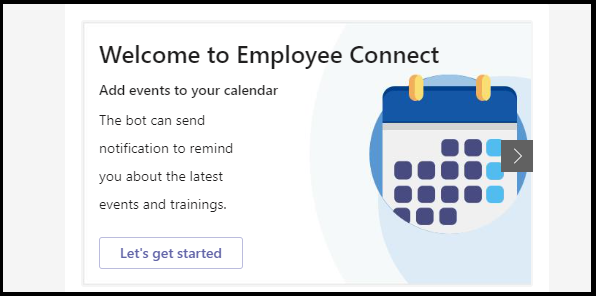
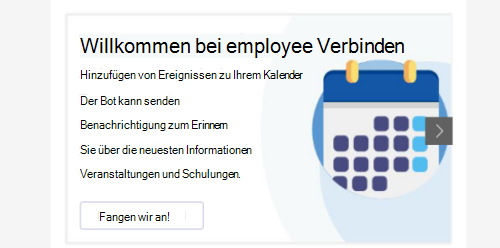
commit translated contents

diff --git a/msteams-platform/toolkit/debug-background-process.md b/msteams-platform/toolkit/debug-background-process.md
@@ -6,20 +6,20 @@ ms.author: surbhigupta
 ms.localizationpriority: high
 ms.topic: overview
 ms.date: 03/03/2022
-ms.openlocfilehash: 74aa3ef53aab329b0b2acae34dc976c142703e0e
-ms.sourcegitcommit: 5e5d2d3fb621bcbd9d792a5b450f95167ec8548b
+ms.openlocfilehash: 33e1e00165119af1e1b63d024097bd3a1a1b13c2
+ms.sourcegitcommit: 3bfd0d2c4d83f306023adb45c8a3f829f7150b1d
 ms.translationtype: HT
 ms.contentlocale: de-DE
-ms.lasthandoff: 03/22/2022
-ms.locfileid: "63731894"
+ms.lasthandoff: 04/27/2022
+ms.locfileid: "65073830"
 ---
 # <a name="debug-background-process"></a>Debuggen von Hintergrundprozessen
 
 Der lokale Debugworkflow umfasst die Dateien `.vscode/launch.json` und `.vscode/tasks.json`, um den Debugger in Visual Studio Code zu konfigurieren, dann startet Visual Studio Code die Debugger und Microsoft Edge oder Chrome-Debugger startet wie folgt eine neue Browserinstanz:
 
-1. Die Datei `launch.json` konfiguriert den Debugger in Visual Studio Code. 
+1. Die Datei `launch.json` konfiguriert den Debugger in Visual Studio Code.
 
-2. Visual Studio Code führt den Verbund `preLaunchTask`, `Pre Debug Check & Start All` in Datei `.vscode/tasks.json` aus.
+2. Visual Studio Code führt den Verbund **preLaunchTask**, **Überprüfung vor dem Debuggen und alle Starten** in der Datei `.vscode/tasks.json` aus.
 
 3. Visual Studio Code startet dann die in den Verbundkonfigurationen angegebenen Debugger, z. B. **An Bot anfügen**, **An Back-End anfügen**, **An Front-End anfügen** und **Bot starten**.
 
@@ -41,11 +41,11 @@ Das Teams-Toolkit überprüft während des Debugprozesses die folgenden Vorausse
    
 * Microsoft 365 Konto mit gültigen Anmeldeinformationen, das Teams-Toolkit fordert Sie auf, sich bei dem Microsoft 365-Konto anzumelden, wenn Sie sich nicht bereits angemeldet haben.
 
-* Das Hochladen oder Querladen benutzerdefinierter Apps für Ihren Entwicklermandanten ist aktiviert. Wenn nicht, wird das lokale Debuggen beendet.
+* Das Hochladen oder Querladen benutzerdefinierter Apps für Ihren Entwicklermandanten ist aktiviert, wenn dies nicht der Fall ist, wird das lokale Debuggen beendet.
 
-* Ngrok-Binärversion 2.3, gültig für Bot- und Messagingerweiterung.  Wenn Ngrok nicht installiert ist oder die Version nicht der Anforderung entspricht, installiert das Teams-Toolkit das Ngrok-NPM-Paket `ngrok@4.2.2` in `~/.fx/bin/ngrok`. Die Ngrok-Binärdatei wird vom Ngrok-NPM-Paket in `/.fx/bin/ngrok/node modules/ngrok/bin`verwaltet.
+* Die Ngrok-Binärdatei, Version 2.3, ist für Bot- und Messaging-Erweiterungen anwendbar. Wenn Ngrok nicht installiert ist oder die Version nicht den Anforderungen entspricht, installiert das Teams-Toolkit das Ngrok-NPM-Paket `ngrok@4.2.2` in `~/.fx/bin/ngrok`. Die Ngrok-Binärdatei wird vom Ngrok-NPM-Paket in `/.fx/bin/ngrok/node modules/ngrok/bin`verwaltet.
 
-* Azure Functions Core Tools, Version 3. Wenn Azure Functions Core Tools nicht installiert ist oder die Version nicht der Anforderung entspricht, installiert das Teams-Toolkit das Azure Functions Core Tools-NPM-Paket, azure-functions-core-tools@3 für **Windows** und für **macOs** in  `~/.fx/bin/func`. Das Azure Functions Core Tools-NPM-Paket in  `~/.fx/bin/func/node_modules/azure-functions-core-tools/bin` verwaltet die Azure Functions Core Tools-Binärdatei. Bei Linux wird das lokale Debuggen beendet.
+* Azure Functions Core Tools, Version 3. Wenn Azure Functions Core Tools nicht installiert ist oder die Version nicht der Anforderung entspricht, installiert das Teams-Toolkit das Azure Functions Core Tools-NPM-Paket „azure-functions-core-tools@3“ für **Windows** und für **macOs** in `~/.fx/bin/func`. Das Azure Functions Core Tools-NPM-Paket in  `~/.fx/bin/func/node_modules/azure-functions-core-tools/bin` verwaltet die Azure Functions Core Tools-Binärdatei. Bei Linux wird das lokale Debuggen beendet.
 
 * .NET Core SDK-Version, die für Azure Functions gilt. Wenn .NET Core SDK nicht installiert ist oder die Version nicht der Anforderung entspricht, installiert das Teams-Toolkit .NET Core SDK für Windows und MacOS in `~/.fx/bin/dotnet`. Bei Linux wird das lokale Debuggen beendet.
 
@@ -56,7 +56,7 @@ Das Teams-Toolkit überprüft während des Debugprozesses die folgenden Vorausse
   |Windows, MacOs (x64) und Linux | **3.1 (empfohlen)**, 5.0, 6.0 |
   |macOs (arm64) |6.0 |
 
-* Entwicklungszertifikat, wenn das Entwicklungszertifikat für localhost nicht für die Registerkarte in Windows oder macOS installiert ist, werden Sie vom Teams-Toolkit aufgefordert, es zu installieren.
+* Entwicklungszertifikat. Wenn das Entwicklungszertifikat für localhost nicht für die Registerkarte in Windows oder macOS installiert ist, werden Sie vom Teams-Toolkit aufgefordert, es zu installieren.
 
 * Azure Functions-Bindungserweiterungen, die in `api/extensions.csproj` definiert sind. Wenn Azure Functions-Bindungserweiterungen nicht installiert sind, installiert das Teams-Toolkit Azure Functions-Bindungserweiterungen.
 
@@ -64,7 +64,7 @@ Das Teams-Toolkit überprüft während des Debugprozesses die folgenden Vorausse
 
 * Bot- und Messagingerweiterung. Das Teams-Toolkit startet Ngrok, um einen HTTP-Tunnel für Bot- und Messagingerweiterungen zu erstellen.
 
-* Verfügbare Ports, wenn Registerkarten-, Bot-, Messagingerweiterungs- und Azure Functions-Ports nicht verfügbar sind, wird das lokale Debuggen beendet.
+* Verfügbare Ports. Wenn keine Ports für Registerkarten, Bots, Messagingerweiterungen und Azure Functions verfügbar sind, wird das lokale Debuggen beendet.
 
   In der folgenden Tabelle sind die Ports aufgeführt, die für Komponenten verfügbar sind:
 
@@ -81,16 +81,16 @@ Das Teams-Toolkit überprüft während des Debugprozesses die folgenden Vorausse
 
 |Project type|Installation| Limitation|
 |----------|--------------------------------|-----|
-|Tab without Azure functions | Node.js LTS versions 10, 12, **14 (recommended)**, 16 | The local debug terminates, if Node.js is not installed or the version doesn't match the requirement.|
-|Tab with Azure functions | Node.js LTS versions 10, 12, **14 (recommended)** |The local debug terminates, if Node.js is not installed or the version doesn't match the requirement.|
-|Bot | Node.js LTS versions 10, 12, **14 (recommended)**, 16|The local debug terminates, if Node.js is not installed or the version doesn't match the requirement.|
-|Messaging extension | Node.js LTS versions 10, 12, **14 (recommended)**, 16 |The local debug terminates, if Node.js is not installed or the version doesn't match the requirement.|
+|Tab without Azure functions | Node.js LTS versions 10, 12, **14 (recommended)**, 16 | The local debug terminates, if Node.js isn't installed or the version doesn't match the requirement.|
+|Tab with Azure functions | Node.js LTS versions 10, 12, **14 (recommended)** |The local debug terminates, if Node.js isn't installed or the version doesn't match the requirement.|
+|Bot | Node.js LTS versions 10, 12, **14 (recommended)**, 16|The local debug terminates, if Node.js isn't installed or the version doesn't match the requirement.|
+|Messaging extension | Node.js LTS versions 10, 12, **14 (recommended)**, 16 |The local debug terminates, if Node.js isn't installed or the version doesn't match the requirement.|
 |Sign in to Microsoft 365 account | Microsoft 365 credentials |Teams toolkit prompts you to sign in to Microsoft 365 account, if you haven't signed in. |
-|Bot, messaging extension | Ngrok version 2.3| • If Ngrok is not installed or the version doesn't match the requirement, the Teams toolkit installs Ngrok NPM package `ngrok@4.2.2` in `~/.fx/bin/ngrok`. </br> • The Ngrok binary is managed by Ngrok NPM package in `/.fx/bin/ngrok/node modules/ngrok/bin`.|
-|Azure functions | Azure Functions Core Tools version 3| • If Azure Functions Core Tools is not installed or the version doesn't match the requirement, the Teams toolkit installs Azure Functions Core Tools NPM package, azure-functions-core-tools@3 for **Windows** and for **macOs** in  `~/.fx/bin/func`. </br> • The Azure Functions Core Tools NPM package in  `~/.fx/bin/func/node_modules/azure-functions-core-tools/bin` manages Azure Functions Core Tools binary. For Linux, the local debug terminates.|
-|Azure functions |.NET Core SDK version|• If .NET Core SDK is not installed or the version  doesn't match the requirement, the toolkit installs .NET Core SDK for Windows and macOS in `~/.fx/bin/dotnet`.</br> • For Linux, the local debug terminates.|
-|Azure functions | Azure functions binding extensions defined in `api/extensions.csproj`| If Azure functions binding extensions is not installed, the toolkit installs Azure functions binding extensions.|
-|NPM packages| NPM packages for tab app, bot app, messaging extension app, and Azure functions|If NPM is not installed, the toolkit installs all NPM packages.|
+|Bot, messaging extension | Ngrok version 2.3| • If Ngrok isn't installed or the version doesn't match the requirement, the Teams toolkit installs Ngrok NPM package `ngrok@4.2.2` in `~/.fx/bin/ngrok`. </br> • The Ngrok binary is managed by Ngrok NPM package in `/.fx/bin/ngrok/node modules/ngrok/bin`.|
+|Azure functions | Azure Functions Core Tools version 3| • If Azure Functions Core Tools isn't installed or the version doesn't match the requirement, the Teams toolkit installs Azure Functions Core Tools NPM package, azure-functions-core-tools@3 for **Windows** and for **macOs** in  `~/.fx/bin/func`. </br> • The Azure Functions Core Tools NPM package in  `~/.fx/bin/func/node_modules/azure-functions-core-tools/bin` manages Azure Functions Core Tools binary. For Linux, the local debug terminates.|
+|Azure functions |.NET Core SDK version|• If .NET Core SDK isn't installed or the version  doesn't match the requirement, the toolkit installs .NET Core SDK for Windows and macOS in `~/.fx/bin/dotnet`.</br> • For Linux, the local debug terminates.|
+|Azure functions | Azure functions binding extensions defined in `api/extensions.csproj`| If Azure functions binding extensions isn't installed, the toolkit installs Azure functions binding extensions.|
+|NPM packages| NPM packages for tab app, bot app, messaging extension app, and Azure functions|If NPM isn't installed, the toolkit installs all NPM packages.|
 |Bot and messaging extension | Ngrok |Toolkit starts Ngrok to create a HTTP tunnel for bot and messaging extension. |
 
 > [!NOTE]
@@ -105,7 +105,7 @@ Use the following .NET Core versions:
 
 
 > [!NOTE]
-> If the development certificate for localhost is not installed for tab in Windows or macOS, the Teams toolkit prompts you to install it.</br> -->
+> If the development certificate for localhost isn't installed for tab in Windows or macOS, the Teams toolkit prompts you to install it.</br> -->
 
 
 Wenn Sie **Start Debugging (F5)** auswählen, zeigt der Ausgabekanal des Teams-Toolkits den Fortschritt und das Ergebnis an, nachdem die Voraussetzungen überprüft wurden.
@@ -130,32 +130,34 @@ Im Einrichtungsprozess bereitet das Teams-Toolkit die folgenden Registrierungen 
 
 1. Macht eine API verfügbar.
 
-    a. Konfiguriert den Anwendungs-ID-URI. Für Registerkarte, `api://localhost/{appId}`. Für Bot- oder Messagingerweiterung,  `api://botid-{botid}`.
+    a. Konfiguriert den Anwendungs-ID-URI. Für Registerkarte, `api://localhost/{appId}`. Für Bot- oder Messagingerweiterung, `api://botid-{botid}`.
 
     b. Fügt einen Bereich mit dem Namen `access_as_user` hinzu. Aktiviert es für **Administratoren und Benutzer**.
 
-In der folgenden Tabelle sind die Konfigurationen der Microsoft 365-Clientanwendung mit den Client-IDs aufgeführt:
-
-  | Microsoft 365-Clientanwendung |  Client-ID  |
-  | --- | --- |
-  | Teams-Desktop, Mobil | 1fec8e78-bce4-4aaf-ab1b-5451cc387264 |
-  | Teams-Web | 5e3ce6c0-2b1f-4285-8d4b-75ee78787346 |
-  | Office.com | 4345a7b9-9a63-4910-a426-35363201d503 |
-  | Office.com | 4765445b-32c6-49b0-83e6-1d93765276ca |
-  | Office-Desktop | 0ec893e0-5785-4de6-99da-4ed124e5296c |
-  | Outlook Desktop | d3590ed6-52b3-4102-aeff-aad2292ab01c |
-  | Outlook Web Access | 00000002-0000-0ff1-ce00-000000000000 |
-  | Outlook Web Access | bc59ab01-8403-45c6-8796-ac3ef710b3e3 |
 
 4. Konfiguriert API-Berechtigungen. Fügt **User.Read** die Microsoft Graph-Berechtigung hinzu.
 
-In der folgenden Tabelle ist die Konfiguration der Authentifizierung wie folgt aufgeführt:
-
-  | Projekttyp | Umleitungs-URIs für das Web | Umleitungs-URIs für eine einseitige Anwendung |
-  | --- | --- | --- |
-  | Tab | `https://localhost:53000/auth-end.html` | `https://localhost:53000/auth-end.html?clientId={appId>}` |
-  | Bot- oder Messagingerweiterung | `https://ngrok.io/auth-end.html` | – |
+    In der folgenden Tabelle ist die Konfiguration der Authentifizierung wie folgt aufgeführt:
+    
+      | Projekttyp | Umleitungs-URIs für das Web | Umleitungs-URIs für eine einseitige Anwendung |
+      | --- | --- | --- |
+      | Tab | `https://localhost:53000/auth-end.html` | `https://localhost:53000/auth-end.html?clientId={appId>}` |
+      | Bot- oder Messagingerweiterung | `https://ngrok.io/auth-end.html` | – |
   
+
+    In der folgenden Tabelle sind die Konfigurationen der Microsoft 365-Clientanwendung mit den Client-IDs aufgeführt:
+    
+      | Microsoft 365-Clientanwendung |  Client-ID  |
+      | --- | --- |
+      | Teams-Desktop, Mobil | 1fec8e78-bce4-4aaf-ab1b-5451cc387264 |
+      | Teams-Web | 5e3ce6c0-2b1f-4285-8d4b-75ee78787346 |
+      | Office.com | 4345a7b9-9a63-4910-a426-35363201d503 |
+      | Office.com | 4765445b-32c6-49b0-83e6-1d93765276ca |
+      | Office-Desktop | 0ec893e0-5785-4de6-99da-4ed124e5296c |
+      | Outlook Desktop | d3590ed6-52b3-4102-aeff-aad2292ab01c |
+      | Outlook Web Access | 00000002-0000-0ff1-ce00-000000000000 |
+      | Outlook Web Access | bc59ab01-8403-45c6-8796-ac3ef710b3e3 |
+    
 ### <a name="registers-and-configures-bot"></a>Registriert und konfiguriert den Bot 
 
 Für Registerkarten-App oder Messagingerweiterungs-App:
@@ -172,7 +174,7 @@ Für Registerkarten-App oder Messagingerweiterungs-App:
 
 ### <a name="registers-and-configures-teams-app"></a>Registriert und konfiguriert Teams-App
 
-Registriert eine Teams-App in [Entwickler](https://dev.teams.microsoft.com/home) mithilfe der Manifestvorlage in `templates/appPackage/manifest.local.template.json`.
+Registriert eine Teams-App in [Entwickler](https://dev.teams.microsoft.com/home) mithilfe der Manifestvorlage in `templates/appPackage/manifest.template.json`.
 
 Nach dem Registrieren und Konfigurieren der App werden lokale Debugdateien generiert.
 
@@ -182,8 +184,8 @@ Sie können die Projektordner und -dateien im Explorer-Bereich von Visual Studio
 
 | Ordnername| Inhalt| Debugkonfigurationstyp |
 | --- | --- | --- |
-|  `.fx/configs/localSettings.json` | Lokale Debugkonfigurationsdatei | Die Werte jeder Konfiguration werden während des lokalen Debuggens generiert und gespeichert. |
-|  `templates/appPackage/manifest.local.template.json` | Teams-App-Manifestvorlagendatei für lokales Debuggen | Die Platzhalter in der Datei werden während des lokalen Debuggens aufgelöst. |
+|  `.fx/configs/config.local.json` | Lokale Debugkonfigurationsdatei | Die Werte jeder Konfiguration werden während des lokalen Debuggens generiert und gespeichert. |
+|  `templates/appPackage/manifest.template.json` | Teams-App-Manifestvorlagendatei für lokales Debuggen | Die Platzhalter in der Datei werden während des lokalen Debuggens aufgelöst. |
 |  `tabs/.env.teams.local`  | Umgebungsvariablendatei für Registerkarte  | Die Werte jeder Umgebungsvariable werden während des lokalen Debuggens generiert und gespeichert. |
 |  `bot/.env.teamsfx.local` | Umgebungsvariablendatei für Bot- und Messagingerweiterung| Die Werte jeder Umgebungsvariable werden während des lokalen Debuggens generiert und gespeichert. |
 | `api/.env.teamsfx.local`  | Umgebungsvariablendatei für Azure Functions | Die Werte jeder Umgebungsvariable werden während des lokalen Debuggens generiert und gespeichert. |

diff --git a/msteams-platform/whats-new.md b/msteams-platform/whats-new.md
@@ -4,12 +4,12 @@ description: Beschreibt alle neuen oder aktuellen Entwicklerfunktionen in Micros
 ms.topic: reference
 ms.localizationpriority: high
 keywords: 'Teams: Was sind die neuesten Updates oder Entwicklervorschau und Features'
-ms.openlocfilehash: 936d5eff50453801527425cbd4a61f6928fb1d30
-ms.sourcegitcommit: 8ae93b7bfffff77a5b9cb7a5d287f202e73ea9be
+ms.openlocfilehash: ba9588517e7b0657eef7da265844e20d8b2fbd76
+ms.sourcegitcommit: 3bfd0d2c4d83f306023adb45c8a3f829f7150b1d
 ms.translationtype: HT
 ms.contentlocale: de-DE
-ms.lasthandoff: 04/19/2022
-ms.locfileid: "64952387"
+ms.lasthandoff: 04/27/2022
+ms.locfileid: "65073090"
 ---
 # <a name="whats-new-for-developers-in-microsoft-teams"></a>Neuigkeiten für Entwickler in Microsoft Teams
 
@@ -22,6 +22,7 @@ Entdecken Sie die Microsoft Teams-Plattformfeatures, die allgemein verfügbar (G
 
 | Datum | Update | Hier finden |
 | --- | --- | --- |
+|20.04.2022 |  Einrichten von CI/CD-Pipelines | Tools und SDKs > Teams Toolkit für Visual Studio Code > [Einrichten von CI/CD-Pipelines](toolkit/use-CICD-template.md)|
 |19.04.2022 | Hochladen Ihrer App in Microsoft Teams | Verteilen Ihrer App > [Hochladen Ihrer App](concepts/deploy-and-publish/apps-upload.md)|
 |06.04.2022| Für Teams über persönliche App oder Registerkarte freigeben (Entwicklervorschau) | Integration in Teams > Freigeben in Teams > [Freigeben in Teams aus einer persönlichen App oder Registerkarte](concepts/build-and-test/share-to-teams-from-personal-app-or-tab.md) |
 |01.04.2022| Schritt-für-Schritt-Anleitung für die Erstellung von Teams-Unterhaltungs-Bots eingeführt| Erstellen von Bots > Bot-Unterhaltungen > Kanal- und Gruppenunterhaltungen > [Schrittweise Anleitung zum Erstellen von Teams Unterhaltungs-Bots](sbs-teams-conversation-bot.yml) |
@@ -61,6 +62,10 @@ Microsoft Teams-Plattformfeatures, die für alle App-Entwickler verfügbar sind.
 
 | **Date** | **Update** | **Hier finden Sie** |
 | -------- | --------- | ----------------|
+|26.04.2022|Deinstallationsverhalten für eine persönliche App mit Bot | Erstellen von Bots > Bot-Unterhaltungen > [Verhaltensaktualisierungen in persönlichen Apps mit Bots deinstallieren](bots/how-to/conversations/subscribe-to-conversation-events.md#uninstall-behavior-for-personal-app-with-bot)|
+|22.04.2022| Testvorschau für monetarisierte Apps | Monetarisieren Ihrer App > [Testvorschau für monetarisierte Apps](concepts/deploy-and-publish/appsource/prepare/test-preview-for-monetized-apps.md)
+|22.04.2022| In-App-Kaufablauf für die Monetarisierung von Apps | Monetarisieren Ihrer App > [In-App-Käufe](concepts/deploy-and-publish/appsource/prepare/in-app-purchase-flow.md)
+|20.04.2022 |  Einrichten von CI/CD-Pipelines | Tools und SDKs > Teams Toolkit für Visual Studio Code > [Einrichten von CI/CD-Pipelines](toolkit/use-CICD-template.md)|
 |19.04.2022 | Hochladen Ihrer App in Microsoft Teams | Verteilen Ihrer App > [Hochladen Ihrer App](concepts/deploy-and-publish/apps-upload.md)|
 |01.04.2022| Schritt-für-Schritt-Anleitung für die Erstellung von Teams-Unterhaltungs-Bots eingeführt| Erstellen von Bots > Bot-Unterhaltungen > Kanal- und Gruppenunterhaltungen > [Schrittweise Anleitung zum Erstellen von Teams Unterhaltungs-Bots](sbs-teams-conversation-bot.yml) |
 |30.03.2022| Das Modul „Erste Schritte mit der Blazor-App mithilfe von Registerkarten und Bots“ wurde aktualisiert|  Erste Schritte > [Erstellen Ihrer ersten App mit Blazor](sbs-gs-blazorupdate.yml)|
@@ -269,14 +274,10 @@ Die Entwicklervorschau ist ein öffentliches Programm, das frühzeitigen Zugriff
 |06.04.2022| Für Teams über persönliche App oder Registerkarte freigeben | Integration in Teams > Freigeben in Teams > [Freigeben in Teams aus einer persönlichen App oder Registerkarte](concepts/build-and-test/share-to-teams-from-personal-app-or-tab.md) |
 |07.02.2022| Tools und SDKs |Teams-Toolkit für Visual Studio Code > </br> • Hinzufügen von Funktionen zur Teams-App> [Fügen Sie Funktionen für Ihre Teams-Apps hinzu](toolkit/add-capability.md) </br> • Hinzufügen von Cloudressourcen zur Teams-App> [Fügen Sie Cloudressourcen für Ihre Teams-App hinzu](toolkit/add-resource.md) |
 |02.02.2022| App-Manifestversion 1.12 eingeführt | App-Manifest > Öffentliche Entwicklervorschau > [Manifestschema](resources/schema/manifest-schema-dev-preview.md) |
-|03.02.2022| Testvorschau für monetarisierte Apps| Monetarisieren Ihrer App > [Testvorschau für monetarisierte Apps](concepts/deploy-and-publish/appsource/prepare/Test-preview-for-monetized-apps.md)|
-|03.02.2022| In-App-Kaufablauf für die Monetarisierung von Apps | Monetarisieren Ihrer App > [In-App-Käufe](concepts/deploy-and-publish/appsource/prepare/in-app-purchase-flow.md)
 |17.01.2022| Personenauswahl in Adaptiven Karten für Mobilgeräte  | Erstellen von Karten und Aufgabenmodulen > Erstellen von Karten > [Personenauswahl in Adaptiven Karten](task-modules-and-cards/cards/people-picker.md)|
 |10.01.2022 | Microsoft Teams-Toolkit-Erweiterung für Visual Studio Code | Tools und SDKs > Teams Toolkit for Visual Studio Code > [Grundlagen des Teams Toolkit](toolkit/teams-toolkit-fundamentals.md) |
-|24.12.2021| Schrittweise Anleitung zum Erteilen von Berechtigungen für Registerkartengeräte eingeführt | App-Grundlagen > Gerätefunktionen > [Schritt-für-Schritt-Anleitung zum Erteilen von Berechtigungen für Tab-Geräte](sbs-tab-device-permissions.yml) |
 |15.11.2021| Persönliche Registerkarten und Messaging-Erweiterungen werden in Outlook und Office ausgeführt | [Erweitern von Teams-Apps auf Microsoft 365](~/m365-apps/overview.md) |
 |28.10.2021|Bots können aktiviert werden, um alle Kanalnachrichten mit ressourcenspezifischer Zustimmung (RESOURCE-Specific Consent, RSC) zu empfangen. | • Erstellen von Bots > Bot-Unterhaltungen > Nachrichten in Bot-Unterhaltungen > [Empfangen aller Nachrichten mit RSC](~/bots/how-to/conversations/channel-messages-with-rsc.md) </br> • Erstellen von Bots > Bot-Unterhaltungen > [Übersicht über Bot-Unterhaltungen](~/bots/how-to/conversations/conversation-basics.md) </br> • Erstellen von Bots > Bot-Unterhaltungen > [Kanal- und Gruppenunterhaltungen](~/bots/how-to/conversations/channel-and-group-conversations.md) </br> • App-Manifest > Öffentliche Entwickler-Vorschau > [Manifest-Schema für Entwickler-Vorschau](~/resources/schema/manifest-schema-dev-preview.md) |
-|21.06.2021|Deinstallationsverhalten für eine persönliche App mit Bot | Erstellen von Bots > Bot-Unterhaltungen > [Verhaltensaktualisierungen in persönlichen Apps mit Bots deinstallieren](bots/how-to/conversations/subscribe-to-conversation-events.md#uninstall-behavior-for-personal-app-with-bot)|
 |16.06.2021| Ressourcenspezifische Zustimmung für Chats | • Verwenden von Teams-Daten mit Microsoft Graph > [Ressourcenspezifische Zustimmung](graph-api/rsc/resource-specific-consent.md) </br> • Testen Ihrer App > Microsoft Graph > [Testen ressourcenspezifischer Genehmigungen in Teams](graph-api/rsc/test-resource-specific-consent.md)|
 
 Weitere Informationen finden Sie unter [Öffentliche Entwickler-Vorschau für Teams](~/resources/dev-preview/developer-preview-intro.md).

diff --git a/msteams-platform/toolkit/debug-local.md b/msteams-platform/toolkit/debug-local.md
@@ -5,12 +5,12 @@ ms.author: surbhigupta
 ms.localizationpriority: high
 ms.topic: overview
 ms.date: 03/21/2022
-ms.openlocfilehash: 25a851f0dcc956139551a46b713dc2e7df3f626d
-ms.sourcegitcommit: 5e5d2d3fb621bcbd9d792a5b450f95167ec8548b
+ms.openlocfilehash: df40425e00014e3836a572dd6de02d978e15d737
+ms.sourcegitcommit: 3bfd0d2c4d83f306023adb45c8a3f829f7150b1d
 ms.translationtype: HT
 ms.contentlocale: de-DE
-ms.lasthandoff: 03/22/2022
-ms.locfileid: "63731862"
+ms.lasthandoff: 04/27/2022
+ms.locfileid: "65073673"
 ---
 # <a name="debug-your-teams-app-locally"></a>Lokales Debuggen Ihrer Teams-App
 
@@ -72,7 +72,7 @@ Führen Sie die folgenden Schritte aus, um Ihre App nach dem Erstellen einer neu
 
    :::image type="content" source="../assets/images/teams-toolkit-v2/debug/debug-run.png" alt-text="Browseroption" border="false":::
 
-1. Wählen Sie **Debuggen starten (F5)** oder  **Ausführen** aus, um Ihre Teams-App im Debugmodus auszuführen.
+1. Wählen Sie **Debuggen starten (F5)** oder **Ausführen** aus, um Ihre Teams-App im Debugmodus auszuführen.
 
    :::image type="content" source="../assets/images/teams-toolkit-v2/debug/start-debugging.png" alt-text="Debugging starten" border="false":::
 
@@ -91,7 +91,7 @@ Führen Sie die folgenden Schritte aus, um Ihre App nach dem Erstellen einer neu
    > [!TIP]
    > Sie können **Weitere Informationen** auswählen, um mehr über das Entwicklungszertifikat zu erfahren.
 
-5. Wählen Sie **Ja** aus, wenn das folgende Dialogfenster angezeigt wird:
+5. Wählen Sie **Ja** aus, wenn das folgende Dialogfeld angezeigt wird:
 
     :::image type="content" source="../assets/images/teams-toolkit-v2/debug/development-certificate.png" alt-text="Zertifizierungsstelle" border="true":::
 
@@ -106,7 +106,7 @@ Das Toolkit startet je nach Auswahl eine neue Edge- oder Chrome-Browserinstanz u
 
    :::image type="content" source="../assets/images/teams-toolkit-v2/debug/debug-run.png" alt-text="Browserlisten" border="false":::
 
-1. Wählen Sie **Debuggen starten (F5)** oder  **Ausführen** aus, um Ihre Teams-App im Debugmodus auszuführen.
+1. Wählen Sie **Debuggen starten (F5)** oder **Ausführen** aus, um Ihre Teams-App im Debugmodus auszuführen.
 
    :::image type="content" source="../assets/images/teams-toolkit-v2/debug/start-debugging.png" alt-text="Debuggen Ihrer App" border="false":::
 
@@ -133,13 +133,13 @@ Das Toolkit startet je nach Auswahl eine neue Edge- oder Chrome-Browserinstanz u
 </details>
 
 
-#### <a name="2-debug-your-app"></a>2. Debuggen Ihrer App 
+#### <a name="2-debug-your-app"></a>2. Debuggen Ihrer App
 
 Nach dem anfänglichen Einrichtungsprozess startet das Teams-Toolkit die folgenden Prozesse:
 
-  a. [Startet App-Dienste](#starts-app-services) </br>
-  b. [Startet Debugger](#launches-debuggers)   </br>
-  c. [Lädt die Teams-App quer](#sideloads-the-teams-app)
+a. [Startet App-Dienste](#starts-app-services) </br>
+b. [Startet Debugger](#launches-debuggers)   </br>
+      c. [Lädt die Teams-App quer](#sideloads-the-teams-app)
         
 #### <a name="starts-app-services"></a>Startet App-Dienste
 
@@ -149,7 +149,7 @@ Führt die in `.vscode/tasks.json` definierten Aufgaben wie folgt aus:
 | --- | --- | --- |
 |  Tab |  **Front-End starten** |  Registerkarten |
 |  Bot- oder Messagingerweiterungen |  **Bot starten** |  Bot |
-|  Azure Functions |  **Back-End starten** |  api |
+|  Azure Functions |  **Back-End starten** |  API |
 
 In der folgenden Abbildung werden die Aufgabennamen auf der Registerkarte **Ausgabe****Terminal** des Visual Studio Code angezeigt, während die Registerkarte, der Bot oder die Messagingerweiterung ausgeführt wird, und Azure Functions.
 
@@ -196,7 +196,16 @@ Mit dem Teams-Toolkit können Sie die Debugeinstellungen anpassen, um Ihre Regis
 
 1. Deaktivieren Sie in Visual Studio Code Einstellungen **Stellen Sie sicher, dass Ngrok installiert und gestartet (ngrok) ist**.
 
-1. Legen Sie die Konfiguration von „botDomain“ und „botEndpoint“ in `.fx/configs/localSettings.json` für Ihre Domäne und Ihren Endpunkt fest.
+1. Legen Sie die Konfiguration von „siteEndpoint“ in `.fx/configs/config.local.json` für Ihren Endpunkt fest.
+
+```json
+{
+    "bot": {
+        "siteEndpoint": "https://your-bot-tunneling-url"
+    }
+}
+
+```
 
 :::image type="content" source="../assets/images/teams-toolkit-v2/debug/bot-endpoint.png" alt-text="Anpassen des Bot-Endpunkts":::
 
@@ -207,7 +216,16 @@ Mit dem Teams-Toolkit können Sie die Debugeinstellungen anpassen, um Ihre Regis
 
 1. Deaktivieren Sie in Visual Studio Code Einstellungen **Stellen Sie sicher, dass das Entwicklungszertifikat vertrauenswürdig ist (devCert)**.
 
-1. Legen Sie die Konfiguration „SslCertFile“ und „sslKeyFile“ in `.fx/configs/localSettings.json` für den Zertifikatdateipfad und den Schlüsseldateipfad fest.
+1. Legen Sie die Konfiguration `sslCertFile` und `sslKeyFile` in `.fx/configs/config.local.json` für den Zertifikatdateipfad und den Schlüsseldateipfad fest.
+
+```json
+{
+    "frontend": {
+        "sslCertFile": "",
+        "sslKeyFile": ""
+    }
+}
+```
 
 :::image type="content" source="../assets/images/teams-toolkit-v2/debug/development-certificate-customize.png" alt-text="Anpassen des Zertifikats":::
 

diff --git a/msteams-platform/concepts/deploy-and-publish/appsource/prepare/Test-preview-for-monetized-apps.md b/msteams-platform/concepts/deploy-and-publish/appsource/prepare/Test-preview-for-monetized-apps.md
@@ -6,17 +6,14 @@ ms.topic: conceptual
 ms.author: v-ypalikila
 ms.localizationpriority: high
 keywords: Teams-Apps SaaS Vorschauangebot Testvorschau monetarisierte Saas
-ms.openlocfilehash: a9427ba61d1432485e1630eb42f72106c0e842ca
-ms.sourcegitcommit: 7f224d37d23e5a3f72b83254e556f5b33e807bca
+ms.openlocfilehash: aff18ba3635b1d5f07cefe73b107211298043a74
+ms.sourcegitcommit: 3bfd0d2c4d83f306023adb45c8a3f829f7150b1d
 ms.translationtype: HT
 ms.contentlocale: de-DE
-ms.lasthandoff: 03/15/2022
-ms.locfileid: "63501956"
+ms.lasthandoff: 04/27/2022
+ms.locfileid: "65073816"
 ---
 # <a name="test-preview-for-monetized-apps"></a>Testvorschau für monetarisierte Apps
-
-> [!NOTE]
-> Die Testvorschau für monetarisierte Apps ist derzeit nur in der [**Entwicklervorschau**](/microsoftteams/platform/resources/dev-preview/developer-preview-intro) verfügbar.
 
 Sie können ein SaaS-Angebot (Software as a Service) erstellen und die End-to-End-Kauferfahrung für Ihre monetarisierten Apps in Teams testen. Benutzer, die als Vorschauzielgruppe für die Teams-App hinzugefügt werden, können Ihr SaaS-Angebot vor der Veröffentlichung überprüfen.
 
